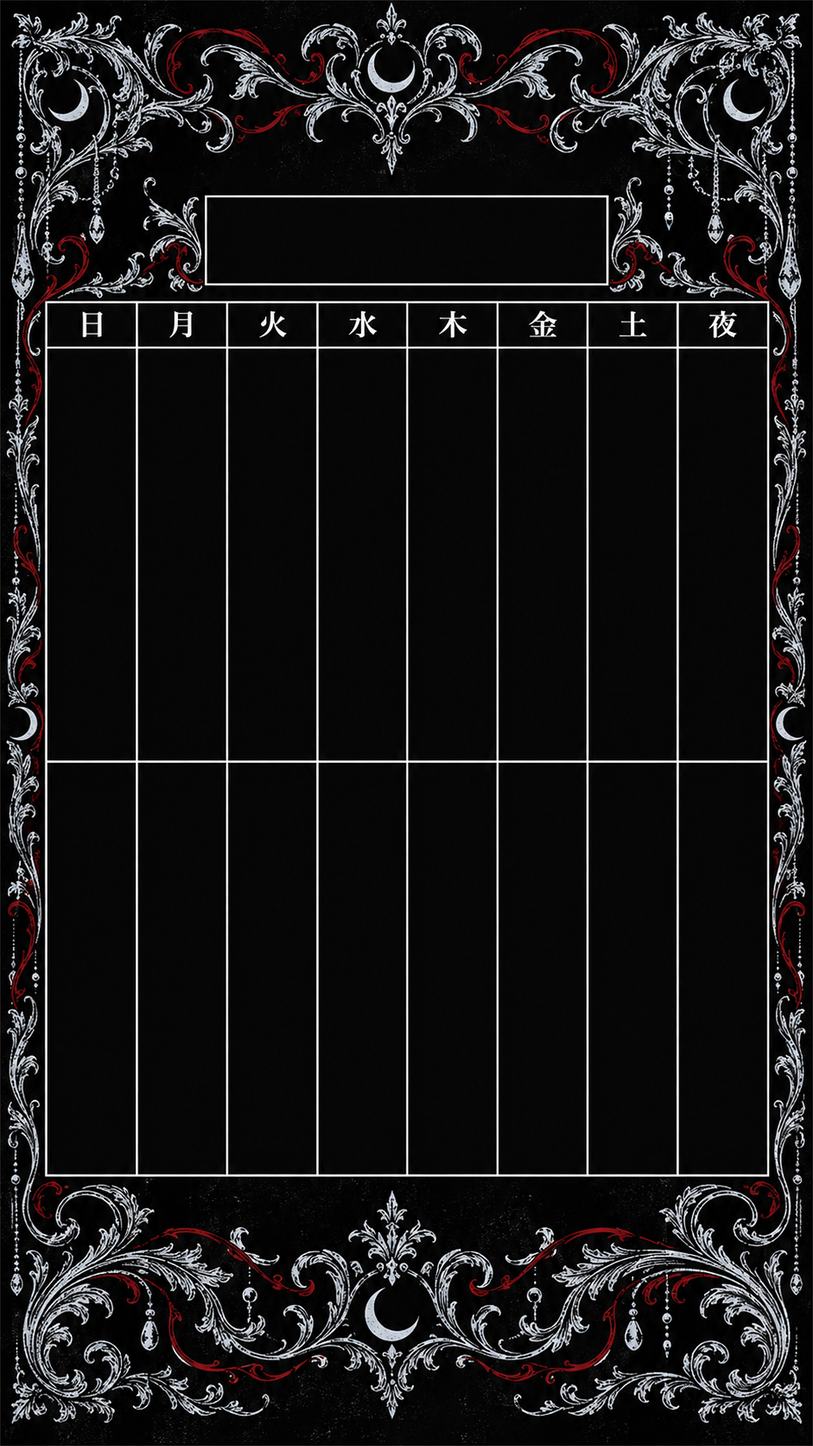
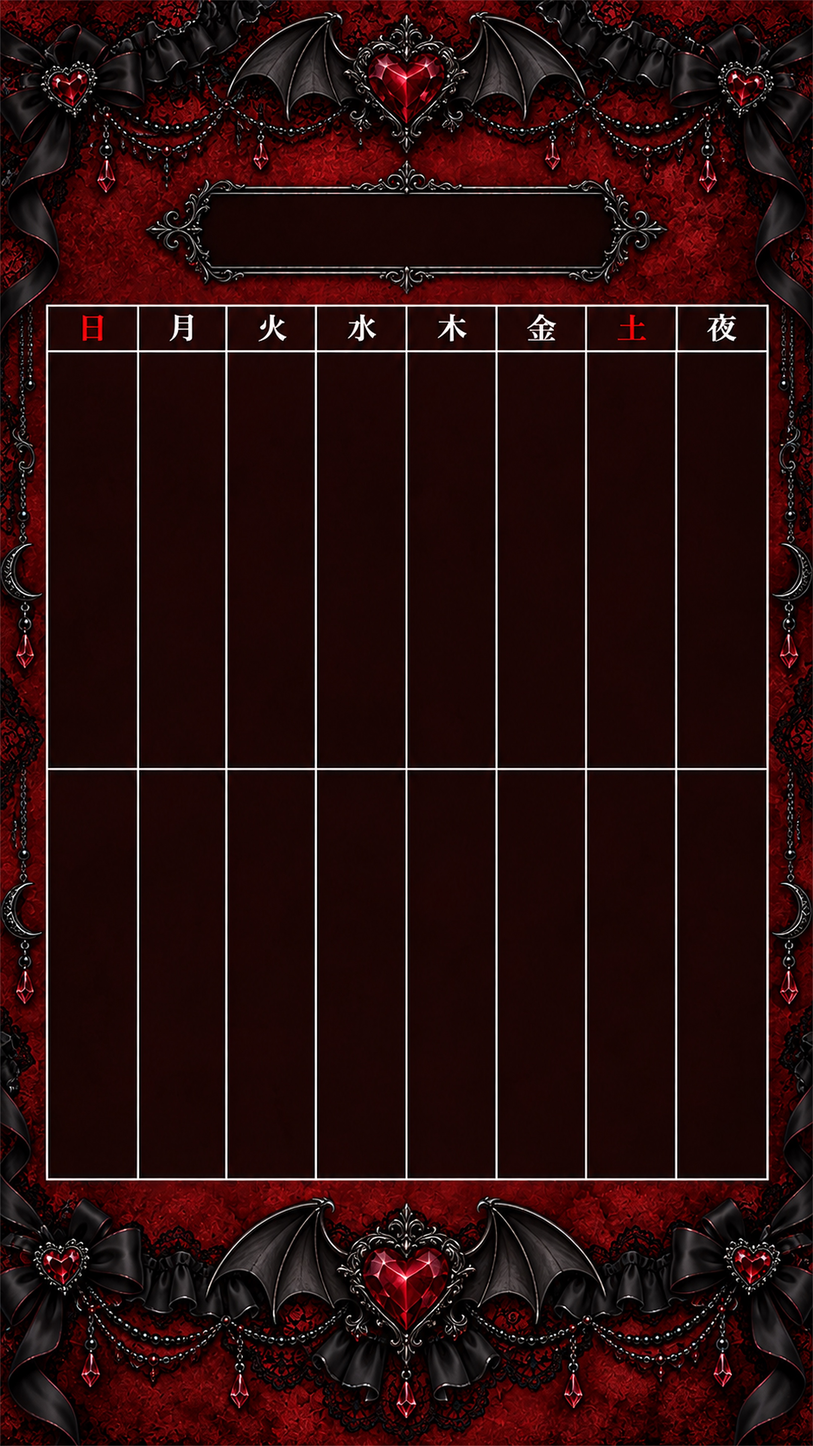
v2 출근표 데빌 2주: 붉은 종이에 레이스와 박쥐날개 그림으로 교체

diff --git a/v2/staff.html b/v2/staff.html
@@ -4685,10 +4685,10 @@ import { createClient } from 'https://esm.sh/@supabase/supabase-js@2';
 
   // title: [x, y, w, h, 글자색] · x/y: 칸 경계 (2주) · week: 매장별 칸 경계 (1주) · panels: 층 순서대로 [x, y, w, h] (1일) · labels: 층 이름판 [x, y, w, h]
   const LAYOUT = {
-    'story-2w-devil': { title: [275, 263, 529, 113, LIGHT], x: [61, 181, 301, 421, 541, 661, 780, 900, 1020], y: [462, 1010, 1560], fs: 33 },
+    'story-2w-devil': { title: [252, 258, 576, 95, LIGHT], x: [62, 183, 300, 419, 539, 659, 778, 898, 1019], y: [467, 1021, 1565], fs: 33 },
     'story-2w-maid': { title: [275, 266, 528, 107, DARK], x: [61, 198, 334, 472, 609, 746, 882, 1019], y: [464, 1011, 1563], fs: 36 },
     'story-2w-matsuri': { title: [275, 264, 523, 113, DARK], x: [61, 197, 336, 470, 609, 745, 883, 1019], y: [461, 1012, 1561], fs: 36 },
-    'post-2w-devil': { title: [275, 162, 529, 95, LIGHT], x: [54, 175, 297, 419, 540, 661, 783, 904, 1026], y: [339, 720, 1125], fs: 33 },
+    'post-2w-devil': { title: [288, 143, 504, 76, LIGHT], x: [68, 183, 303, 420, 540, 657, 777, 894, 1012], y: [300, 710, 1120], fs: 33 },
     'post-2w-maid': { title: [289, 67, 505, 82, DARK], x: [53, 194, 333, 471, 609, 746, 886, 1026], y: [245, 717, 1182], fs: 36 },
     'post-2w-matsuri': { title: [272, 67, 534, 86, DARK], x: [52, 191, 330, 471, 609, 749, 889, 1028], y: [235, 708, 1180], fs: 36 },
     'story-1w': { title: [267, 161, 546, 77, DARK], labels: [[415, 264, 249, 36], [415, 705, 249, 36], [415, 1189, 250, 40]], week: [[[56, 177, 300, 420, 541, 661, 782, 904, 1025], 384, 678], [[56, 195, 333, 471, 609, 748, 886, 1025], 828, 1161], [[56, 195, 332, 471, 609, 747, 886, 1025], 1315, 1649]], fs: 28 },

diff --git a/v2/staff-src/js/33-export.js b/v2/staff-src/js/33-export.js
@@ -21,10 +21,10 @@
 
   // title: [x, y, w, h, 글자색] · x/y: 칸 경계 (2주) · week: 매장별 칸 경계 (1주) · panels: 층 순서대로 [x, y, w, h] (1일) · labels: 층 이름판 [x, y, w, h]
   const LAYOUT = {
-    'story-2w-devil': { title: [275, 263, 529, 113, LIGHT], x: [61, 181, 301, 421, 541, 661, 780, 900, 1020], y: [462, 1010, 1560], fs: 33 },
+    'story-2w-devil': { title: [252, 258, 576, 95, LIGHT], x: [62, 183, 300, 419, 539, 659, 778, 898, 1019], y: [467, 1021, 1565], fs: 33 },
     'story-2w-maid': { title: [275, 266, 528, 107, DARK], x: [61, 198, 334, 472, 609, 746, 882, 1019], y: [464, 1011, 1563], fs: 36 },
     'story-2w-matsuri': { title: [275, 264, 523, 113, DARK], x: [61, 197, 336, 470, 609, 745, 883, 1019], y: [461, 1012, 1561], fs: 36 },
-    'post-2w-devil': { title: [275, 162, 529, 95, LIGHT], x: [54, 175, 297, 419, 540, 661, 783, 904, 1026], y: [339, 720, 1125], fs: 33 },
+    'post-2w-devil': { title: [288, 143, 504, 76, LIGHT], x: [68, 183, 303, 420, 540, 657, 777, 894, 1012], y: [300, 710, 1120], fs: 33 },
     'post-2w-maid': { title: [289, 67, 505, 82, DARK], x: [53, 194, 333, 471, 609, 746, 886, 1026], y: [245, 717, 1182], fs: 36 },
     'post-2w-matsuri': { title: [272, 67, 534, 86, DARK], x: [52, 191, 330, 471, 609, 749, 889, 1028], y: [235, 708, 1180], fs: 36 },
     'story-1w': { title: [267, 161, 546, 77, DARK], labels: [[415, 264, 249, 36], [415, 705, 249, 36], [415, 1189, 250, 40]], week: [[[56, 177, 300, 420, 541, 661, 782, 904, 1025], 384, 678], [[56, 195, 333, 471, 609, 748, 886, 1025], 828, 1161], [[56, 195, 332, 471, 609, 747, 886, 1025], 1315, 1649]], fs: 28 },
